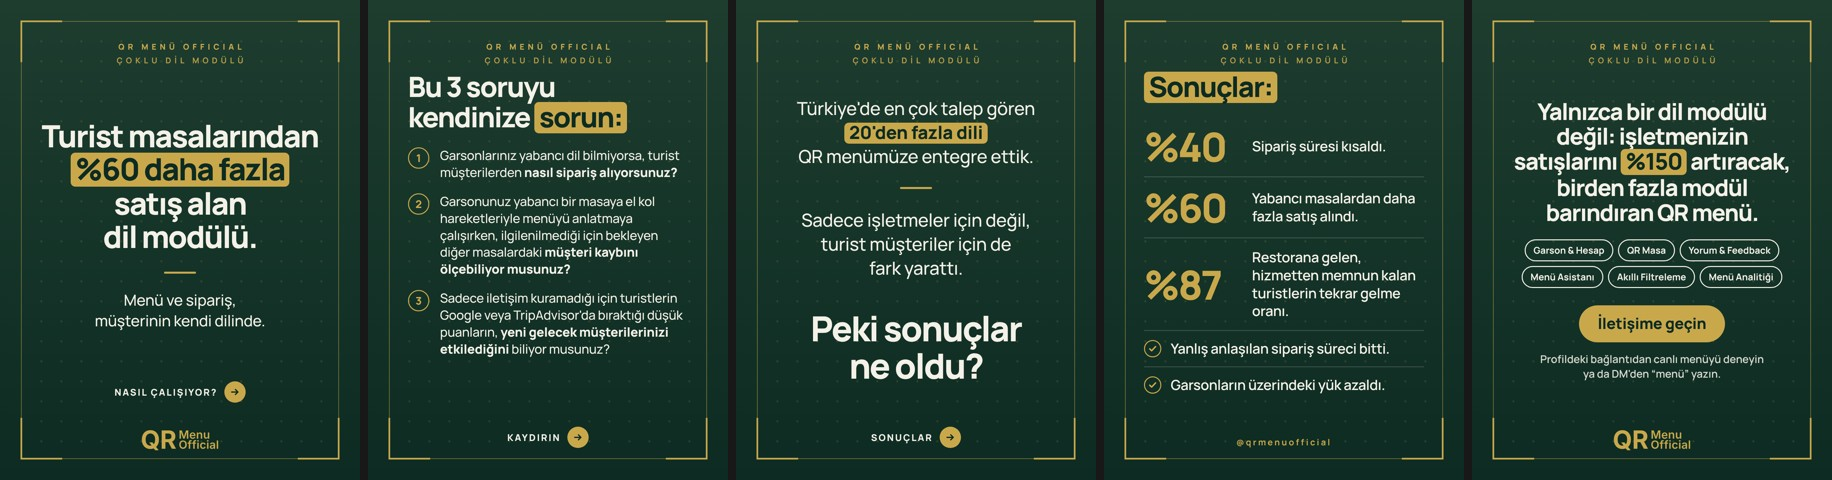
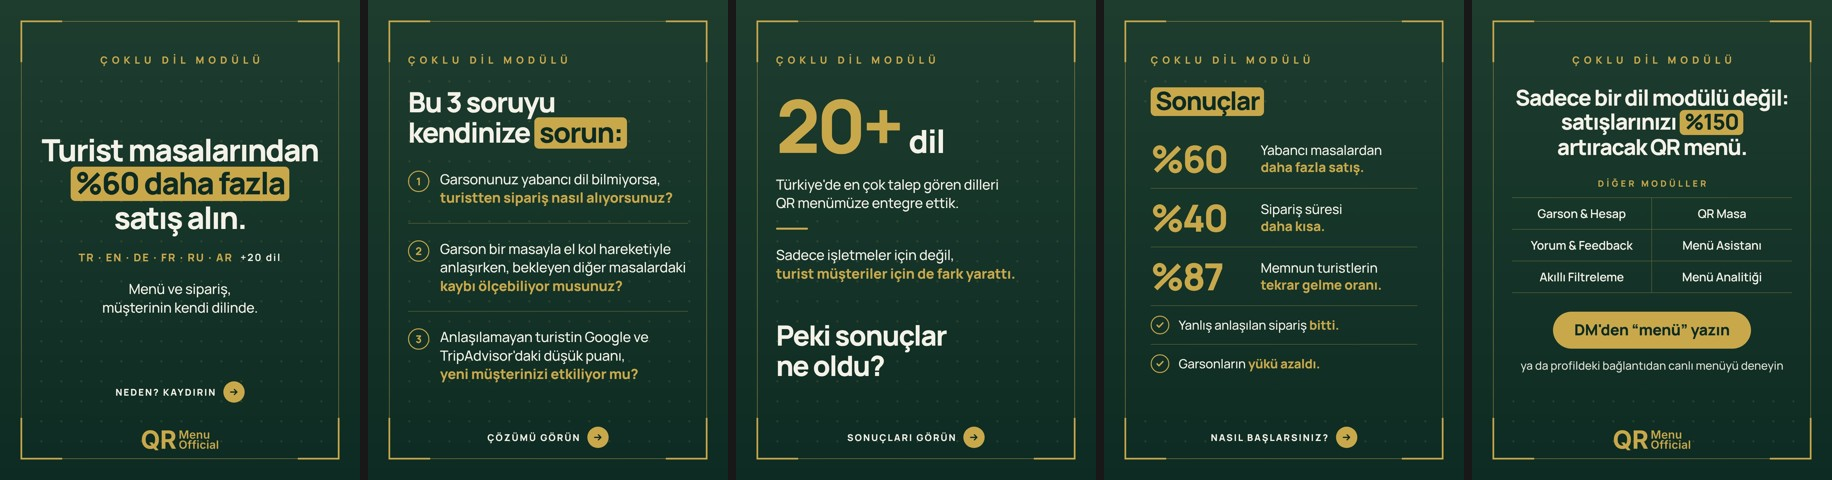
Carousel slayt 5: kapanış, modül ızgarası, tek CTA
Claude-Session: https://claude.ai/code/session_01FBw9rVwrniVjyFvtgVdFXq

diff --git a/analiz/carousel-dil/carousel-v6.html b/analiz/carousel-dil/carousel-v6.html
@@ -135,6 +135,12 @@ body{background:linear-gradient(var(--y2),var(--y))!important;color:var(--off)!i
 .tk i svg{stroke:#C9A84C!important}
 .tk .c2t{font-size:38px;line-height:1.26;font-weight:500;letter-spacing:-.01em}
 .tk .c2t b{color:var(--g);font-weight:800}
+.s5 .eb{margin-top:56px;font-weight:800;font-size:26px;letter-spacing:.3em;padding-left:.3em;color:var(--g)}
+.mods{display:grid;grid-template-columns:1fr 1fr;width:100%;margin-top:24px;border-top:2px solid #C9A84C55}
+.mods span{font-weight:600;font-size:36px;padding:22px 0;border-bottom:2px solid #C9A84C55;letter-spacing:-.01em;text-align:center}
+.mods span:nth-child(odd){border-right:2px solid #C9A84C55}
+.cta5{margin-top:56px;background:var(--g);color:var(--y);font-weight:800;font-size:46px;letter-spacing:-.01em;border-radius:99px;padding:22px 64px 26px}
+.how5{margin-top:28px;font-weight:500;font-size:34px;line-height:1.3;opacity:.92}
 </style></head><body>
 <svg class="rg a" width="1080" height="1440" viewBox="0 0 1080 1440" fill="none"><g><circle cx="1200" cy="300" r="180" stroke="#0D2B22" stroke-width="3.0" opacity="0.198"/><circle cx="1200" cy="300" r="300" stroke="#0D2B22" stroke-width="2.6" opacity="0.162"/><circle cx="1200" cy="300" r="420" stroke="#0D2B22" stroke-width="2.2" opacity="0.126"/><circle cx="1200" cy="300" r="540" stroke="#0D2B22" stroke-width="2.0" opacity="0.095"/><circle cx="1200" cy="300" r="660" stroke="#0D2B22" stroke-width="1.6" opacity="0.068"/><circle cx="1200" cy="300" r="780" stroke="#0D2B22" stroke-width="1.4" opacity="0.045"/><circle cx="1200" cy="300" r="900" stroke="#0D2B22" stroke-width="1.2" opacity="0.032"/></g><g><circle cx="-120" cy="1560" r="180" stroke="#0D2B22" stroke-width="2.4" opacity="0.135"/><circle cx="-120" cy="1560" r="300" stroke="#0D2B22" stroke-width="2" opacity="0.099"/><circle cx="-120" cy="1560" r="420" stroke="#0D2B22" stroke-width="1.6" opacity="0.068"/><circle cx="-120" cy="1560" r="520" stroke="#0D2B22" stroke-width="1.3" opacity="0.045"/></g></svg> <svg class="rg z" width="1080" height="1440" viewBox="0 0 1080 1440" fill="none"><g><circle cx="1200" cy="300" r="180" stroke="#C9A84C" stroke-width="3.0" opacity="0.242"/><circle cx="1200" cy="300" r="300" stroke="#C9A84C" stroke-width="2.6" opacity="0.198"/><circle cx="1200" cy="300" r="420" stroke="#C9A84C" stroke-width="2.2" opacity="0.154"/><circle cx="1200" cy="300" r="540" stroke="#C9A84C" stroke-width="2.0" opacity="0.116"/><circle cx="1200" cy="300" r="660" stroke="#C9A84C" stroke-width="1.6" opacity="0.083"/><circle cx="1200" cy="300" r="780" stroke="#C9A84C" stroke-width="1.4" opacity="0.055"/><circle cx="1200" cy="300" r="900" stroke="#C9A84C" stroke-width="1.2" opacity="0.039"/></g><g><circle cx="-120" cy="1560" r="180" stroke="#C9A84C" stroke-width="2.4" opacity="0.165"/><circle cx="-120" cy="1560" r="300" stroke="#C9A84C" stroke-width="2" opacity="0.121"/><circle cx="-120" cy="1560" r="420" stroke="#C9A84C" stroke-width="1.6" opacity="0.083"/><circle cx="-120" cy="1560" r="520" stroke="#C9A84C" stroke-width="1.3" opacity="0.055"/></g></svg>
 <svg class="fr" width="1080" height="1440" viewBox="0 0 1080 1440" fill="none" stroke="#C9A84C" stroke-linecap="square"><rect x="64" y="64" width="952" height="1312" stroke-width="2" opacity=".55"/><g stroke-width="5"><path d="M64 184V64h120M896 64h120v120M1016 1256v120H896M184 1376H64V1256"/></g></svg><svg style="position:absolute;inset:0;z-index:0" width="1080" height="1440" fill="#C9A84C" opacity=".17"><circle cx="124" cy="244" r="3"/><circle cx="124" cy="304" r="3"/><circle cx="124" cy="364" r="3"/><circle cx="124" cy="424" r="3"/><circle cx="124" cy="484" r="3"/><circle cx="124" cy="544" r="3"/><circle cx="124" cy="604" r="3"/><circle cx="124" cy="664" r="3"/><circle cx="124" cy="724" r="3"/><circle cx="124" cy="784" r="3"/><circle cx="124" cy="844" r="3"/><circle cx="124" cy="904" r="3"/><circle cx="124" cy="964" r="3"/><circle cx="124" cy="1024" r="3"/><circle cx="124" cy="1084" r="3"/><circle cx="124" cy="1144" r="3"/><circle cx="124" cy="1204" r="3"/><circle cx="124" cy="1264" r="3"/><circle cx="124" cy="1324" r="3"/><circle cx="184" cy="244" r="3"/><circle cx="184" cy="304" r="3"/><circle cx="184" cy="364" r="3"/><circle cx="184" cy="424" r="3"/><circle cx="184" cy="484" r="3"/><circle cx="184" cy="544" r="3"/><circle cx="184" cy="604" r="3"/><circle cx="184" cy="664" r="3"/><circle cx="184" cy="724" r="3"/><circle cx="184" cy="784" r="3"/><circle cx="184" cy="844" r="3"/><circle cx="184" cy="904" r="3"/><circle cx="184" cy="964" r="3"/><circle cx="184" cy="1024" r="3"/><circle cx="184" cy="1084" r="3"/><circle cx="184" cy="1144" r="3"/><circle cx="184" cy="1204" r="3"/><circle cx="184" cy="1264" r="3"/><circle cx="184" cy="1324" r="3"/><circle cx="244" cy="244" r="3"/><circle cx="244" cy="304" r="3"/><circle cx="244" cy="364" r="3"/><circle cx="244" cy="424" r="3"/><circle cx="244" cy="484" r="3"/><circle cx="244" cy="544" r="3"/><circle cx="244" cy="604" r="3"/><circle cx="244" cy="664" r="3"/><circle cx="244" cy="724" r="3"/><circle cx="244" cy="784" r="3"/><circle cx="244" cy="844" r="3"/><circle cx="244" cy="904" r="3"/><circle cx="244" cy="964" r="3"/><circle cx="244" cy="1024" r="3"/><circle cx="244" cy="1084" r="3"/><circle cx="244" cy="1144" r="3"/><circle cx="244" cy="1204" r="3"/><circle cx="244" cy="1264" r="3"/><circle cx="244" cy="1324" r="3"/><circle cx="304" cy="244" r="3"/><circle cx="304" cy="304" r="3"/><circle cx="304" cy="364" r="3"/><circle cx="304" cy="424" r="3"/><circle cx="304" cy="484" r="3"/><circle cx="304" cy="544" r="3"/><circle cx="304" cy="604" r="3"/><circle cx="304" cy="664" r="3"/><circle cx="304" cy="724" r="3"/><circle cx="304" cy="784" r="3"/><circle cx="304" cy="844" r="3"/><circle cx="304" cy="904" r="3"/><circle cx="304" cy="964" r="3"/><circle cx="304" cy="1024" r="3"/><circle cx="304" cy="1084" r="3"/><circle cx="304" cy="1144" r="3"/><circle cx="304" cy="1204" r="3"/><circle cx="304" cy="1264" r="3"/><circle cx="304" cy="1324" r="3"/><circle cx="364" cy="244" r="3"/><circle cx="364" cy="304" r="3"/><circle cx="364" cy="364" r="3"/><circle cx="364" cy="424" r="3"/><circle cx="364" cy="484" r="3"/><circle cx="364" cy="544" r="3"/><circle cx="364" cy="604" r="3"/><circle cx="364" cy="664" r="3"/><circle cx="364" cy="724" r="3"/><circle cx="364" cy="784" r="3"/><circle cx="364" cy="844" r="3"/><circle cx="364" cy="904" r="3"/><circle cx="364" cy="964" r="3"/><circle cx="364" cy="1024" r="3"/><circle cx="364" cy="1084" r="3"/><circle cx="364" cy="1144" r="3"/><circle cx="364" cy="1204" r="3"/><circle cx="364" cy="1264" r="3"/><circle cx="364" cy="1324" r="3"/><circle cx="424" cy="244" r="3"/><circle cx="424" cy="304" r="3"/><circle cx="424" cy="364" r="3"/><circle cx="424" cy="424" r="3"/><circle cx="424" cy="484" r="3"/><circle cx="424" cy="544" r="3"/><circle cx="424" cy="604" r="3"/><circle cx="424" cy="664" r="3"/><circle cx="424" cy="724" r="3"/><circle cx="424" cy="784" r="3"/><circle cx="424" cy="844" r="3"/><circle cx="424" cy="904" r="3"/><circle cx="424" cy="964" r="3"/><circle cx="424" cy="1024" r="3"/><circle cx="424" cy="1084" r="3"/><circle cx="424" cy="1144" r="3"/><circle cx="424" cy="1204" r="3"/><circle cx="424" cy="1264" r="3"/><circle cx="424" cy="1324" r="3"/><circle cx="484" cy="244" r="3"/><circle cx="484" cy="304" r="3"/><circle cx="484" cy="364" r="3"/><circle cx="484" cy="424" r="3"/><circle cx="484" cy="484" r="3"/><circle cx="484" cy="544" r="3"/><circle cx="484" cy="604" r="3"/><circle cx="484" cy="664" r="3"/><circle cx="484" cy="724" r="3"/><circle cx="484" cy="784" r="3"/><circle cx="484" cy="844" r="3"/><circle cx="484" cy="904" r="3"/><circle cx="484" cy="964" r="3"/><circle cx="484" cy="1024" r="3"/><circle cx="484" cy="1084" r="3"/><circle cx="484" cy="1144" r="3"/><circle cx="484" cy="1204" r="3"/><circle cx="484" cy="1264" r="3"/><circle cx="484" cy="1324" r="3"/><circle cx="544" cy="244" r="3"/><circle cx="544" cy="304" r="3"/><circle cx="544" cy="364" r="3"/><circle cx="544" cy="424" r="3"/><circle cx="544" cy="484" r="3"/><circle cx="544" cy="544" r="3"/><circle cx="544" cy="604" r="3"/><circle cx="544" cy="664" r="3"/><circle cx="544" cy="724" r="3"/><circle cx="544" cy="784" r="3"/><circle cx="544" cy="844" r="3"/><circle cx="544" cy="904" r="3"/><circle cx="544" cy="964" r="3"/><circle cx="544" cy="1024" r="3"/><circle cx="544" cy="1084" r="3"/><circle cx="544" cy="1144" r="3"/><circle cx="544" cy="1204" r="3"/><circle cx="544" cy="1264" r="3"/><circle cx="544" cy="1324" r="3"/><circle cx="604" cy="244" r="3"/><circle cx="604" cy="304" r="3"/><circle cx="604" cy="364" r="3"/><circle cx="604" cy="424" r="3"/><circle cx="604" cy="484" r="3"/><circle cx="604" cy="544" r="3"/><circle cx="604" cy="604" r="3"/><circle cx="604" cy="664" r="3"/><circle cx="604" cy="724" r="3"/><circle cx="604" cy="784" r="3"/><circle cx="604" cy="844" r="3"/><circle cx="604" cy="904" r="3"/><circle cx="604" cy="964" r="3"/><circle cx="604" cy="1024" r="3"/><circle cx="604" cy="1084" r="3"/><circle cx="604" cy="1144" r="3"/><circle cx="604" cy="1204" r="3"/><circle cx="604" cy="1264" r="3"/><circle cx="604" cy="1324" r="3"/><circle cx="664" cy="244" r="3"/><circle cx="664" cy="304" r="3"/><circle cx="664" cy="364" r="3"/><circle cx="664" cy="424" r="3"/><circle cx="664" cy="484" r="3"/><circle cx="664" cy="544" r="3"/><circle cx="664" cy="604" r="3"/><circle cx="664" cy="664" r="3"/><circle cx="664" cy="724" r="3"/><circle cx="664" cy="784" r="3"/><circle cx="664" cy="844" r="3"/><circle cx="664" cy="904" r="3"/><circle cx="664" cy="964" r="3"/><circle cx="664" cy="1024" r="3"/><circle cx="664" cy="1084" r="3"/><circle cx="664" cy="1144" r="3"/><circle cx="664" cy="1204" r="3"/><circle cx="664" cy="1264" r="3"/><circle cx="664" cy="1324" r="3"/><circle cx="724" cy="244" r="3"/><circle cx="724" cy="304" r="3"/><circle cx="724" cy="364" r="3"/><circle cx="724" cy="424" r="3"/><circle cx="724" cy="484" r="3"/><circle cx="724" cy="544" r="3"/><circle cx="724" cy="604" r="3"/><circle cx="724" cy="664" r="3"/><circle cx="724" cy="724" r="3"/><circle cx="724" cy="784" r="3"/><circle cx="724" cy="844" r="3"/><circle cx="724" cy="904" r="3"/><circle cx="724" cy="964" r="3"/><circle cx="724" cy="1024" r="3"/><circle cx="724" cy="1084" r="3"/><circle cx="724" cy="1144" r="3"/><circle cx="724" cy="1204" r="3"/><circle cx="724" cy="1264" r="3"/><circle cx="724" cy="1324" r="3"/><circle cx="784" cy="244" r="3"/><circle cx="784" cy="304" r="3"/><circle cx="784" cy="364" r="3"/><circle cx="784" cy="424" r="3"/><circle cx="784" cy="484" r="3"/><circle cx="784" cy="544" r="3"/><circle cx="784" cy="604" r="3"/><circle cx="784" cy="664" r="3"/><circle cx="784" cy="724" r="3"/><circle cx="784" cy="784" r="3"/><circle cx="784" cy="844" r="3"/><circle cx="784" cy="904" r="3"/><circle cx="784" cy="964" r="3"/><circle cx="784" cy="1024" r="3"/><circle cx="784" cy="1084" r="3"/><circle cx="784" cy="1144" r="3"/><circle cx="784" cy="1204" r="3"/><circle cx="784" cy="1264" r="3"/><circle cx="784" cy="1324" r="3"/><circle cx="844" cy="244" r="3"/><circle cx="844" cy="304" r="3"/><circle cx="844" cy="364" r="3"/><circle cx="844" cy="424" r="3"/><circle cx="844" cy="484" r="3"/><circle cx="844" cy="544" r="3"/><circle cx="844" cy="604" r="3"/><circle cx="844" cy="664" r="3"/><circle cx="844" cy="724" r="3"/><circle cx="844" cy="784" r="3"/><circle cx="844" cy="844" r="3"/><circle cx="844" cy="904" r="3"/><circle cx="844" cy="964" r="3"/><circle cx="844" cy="1024" r="3"/><circle cx="844" cy="1084" r="3"/><circle cx="844" cy="1144" r="3"/><circle cx="844" cy="1204" r="3"/><circle cx="844" cy="1264" r="3"/><circle cx="844" cy="1324" r="3"/><circle cx="904" cy="244" r="3"/><circle cx="904" cy="304" r="3"/><circle cx="904" cy="364" r="3"/><circle cx="904" cy="424" r="3"/><circle cx="904" cy="484" r="3"/><circle cx="904" cy="544" r="3"/><circle cx="904" cy="604" r="3"/><circle cx="904" cy="664" r="3"/><circle cx="904" cy="724" r="3"/><circle cx="904" cy="784" r="3"/><circle cx="904" cy="844" r="3"/><circle cx="904" cy="904" r="3"/><circle cx="904" cy="964" r="3"/><circle cx="904" cy="1024" r="3"/><circle cx="904" cy="1084" r="3"/><circle cx="904" cy="1144" r="3"/><circle cx="904" cy="1204" r="3"/><circle cx="904" cy="1264" r="3"/><circle cx="904" cy="1324" r="3"/><circle cx="964" cy="244" r="3"/><circle cx="964" cy="304" r="3"/><circle cx="964" cy="364" r="3"/><circle cx="964" cy="424" r="3"/><circle cx="964" cy="484" r="3"/><circle cx="964" cy="544" r="3"/><circle cx="964" cy="604" r="3"/><circle cx="964" cy="664" r="3"/><circle cx="964" cy="724" r="3"/><circle cx="964" cy="784" r="3"/><circle cx="964" cy="844" r="3"/><circle cx="964" cy="904" r="3"/><circle cx="964" cy="964" r="3"/><circle cx="964" cy="1024" r="3"/><circle cx="964" cy="1084" r="3"/><circle cx="964" cy="1144" r="3"/><circle cx="964" cy="1204" r="3"/><circle cx="964" cy="1264" r="3"/><circle cx="964" cy="1324" r="3"/></svg><div class="s" id="S"></div>
@@ -189,17 +195,20 @@ const SL={
   <div class="tk"><i>${CHK}</i><div class="c2t">Yanlış anlaşılan sipariş <b>bitti.</b></div></div>
   <div class="tk"><i>${CHK}</i><div class="c2t">Garsonların <b>yükü azaldı.</b></div></div>
  </div></div>${nx('Nasıl başlarsınız?','#F4F1E8')}`},
-5:{bg:'zumrut',html:()=>`<div class="lab">${MOD}</div>
- <div class="area c"><div class="h" id="H" data-max="72" data-min="60">${L(['Yalnızca bir dil modülü','değil: işletmenizin','satışlarını [[%150]] artıracak,','birden fazla modül','barındıran QR menü.'])}</div>
- <div class="chips"><span>Garson &amp; Hesap</span><span>QR Masa</span><span>Yorum &amp; Feedback</span><span>Menü Asistanı</span><span>Akıllı Filtreleme</span><span>Menü Analitiği</span></div>
- <div class="cta">İletişime geçin</div>
- <div class="how">Profildeki bağlantıdan canlı menüyü deneyin<br>ya da DM'den “menü” yazın.</div></div>
- <div class="logo">${LG()}</div>`}
+5:{bg:'zumrut',html:()=>`<div class="lab" style="font-size:30px;padding-top:34px">ÇOKLU DİL MODÜLÜ</div>
+ <div class="area c s5" style="top:236px;bottom:300px">
+  <div class="h" id="H" data-max="66" data-min="56">${L(['Sadece bir dil modülü değil:','satışlarınızı [[%150]]','artıracak QR menü.'])}</div>
+  <div class="eb">DİĞER MODÜLLER</div>
+  <div class="mods"><span>Garson &amp; Hesap</span><span>QR Masa</span><span>Yorum &amp; Feedback</span><span>Menü Asistanı</span><span>Akıllı Filtreleme</span><span>Menü Analitiği</span></div>
+  <div class="cta5">DM'den “menü” yazın</div>
+  <div class="how5">ya da profildeki bağlantıdan canlı menüyü deneyin</div>
+ </div><div class="logo">${LG()}</div>`}
 };
 const n=+(new URLSearchParams(location.search).get('s')||1);
 document.body.className='zumrut';
 document.getElementById('S').innerHTML=SL[n].html();
 if(n==4)document.querySelectorAll('svg circle[r="3"]').forEach(c=>{if(+c.getAttribute('cy')>330&&+c.getAttribute('cy')<1210)c.remove()});
+if(n==5)document.querySelectorAll('svg circle[r="3"]').forEach(c=>{if(+c.getAttribute('cy')>230&&+c.getAttribute('cy')<1170)c.remove()});
 if(n==3)document.querySelectorAll('svg circle[r="3"]').forEach(c=>{if(+c.getAttribute('cy')<500&&+c.getAttribute('cx')<700)c.remove()});
 document.fonts.ready.then(()=>{const W=840;
  for(const id of ['H','P','P2']){const e=document.getElementById(id);if(!e)continue;let f=+e.dataset.max||56;const mn=+e.dataset.min||40;
